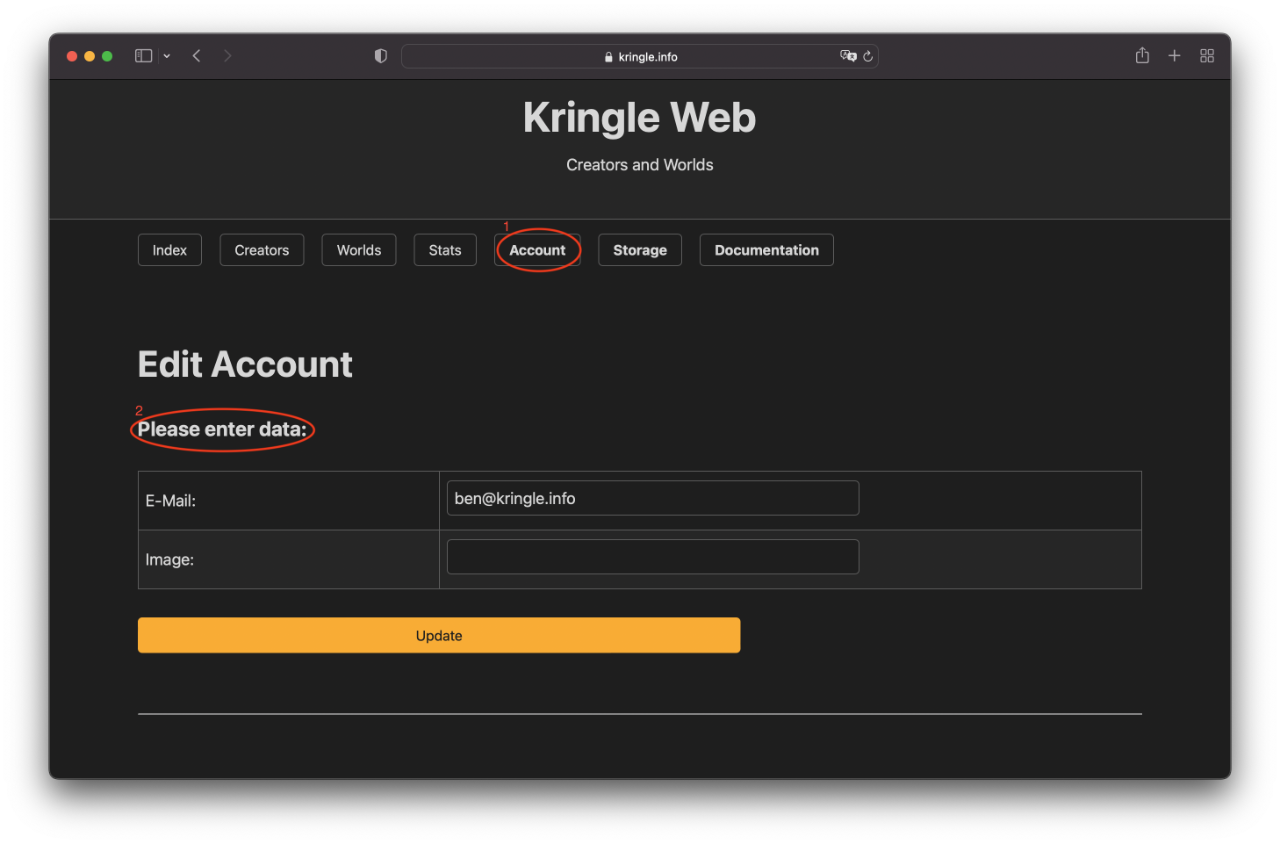
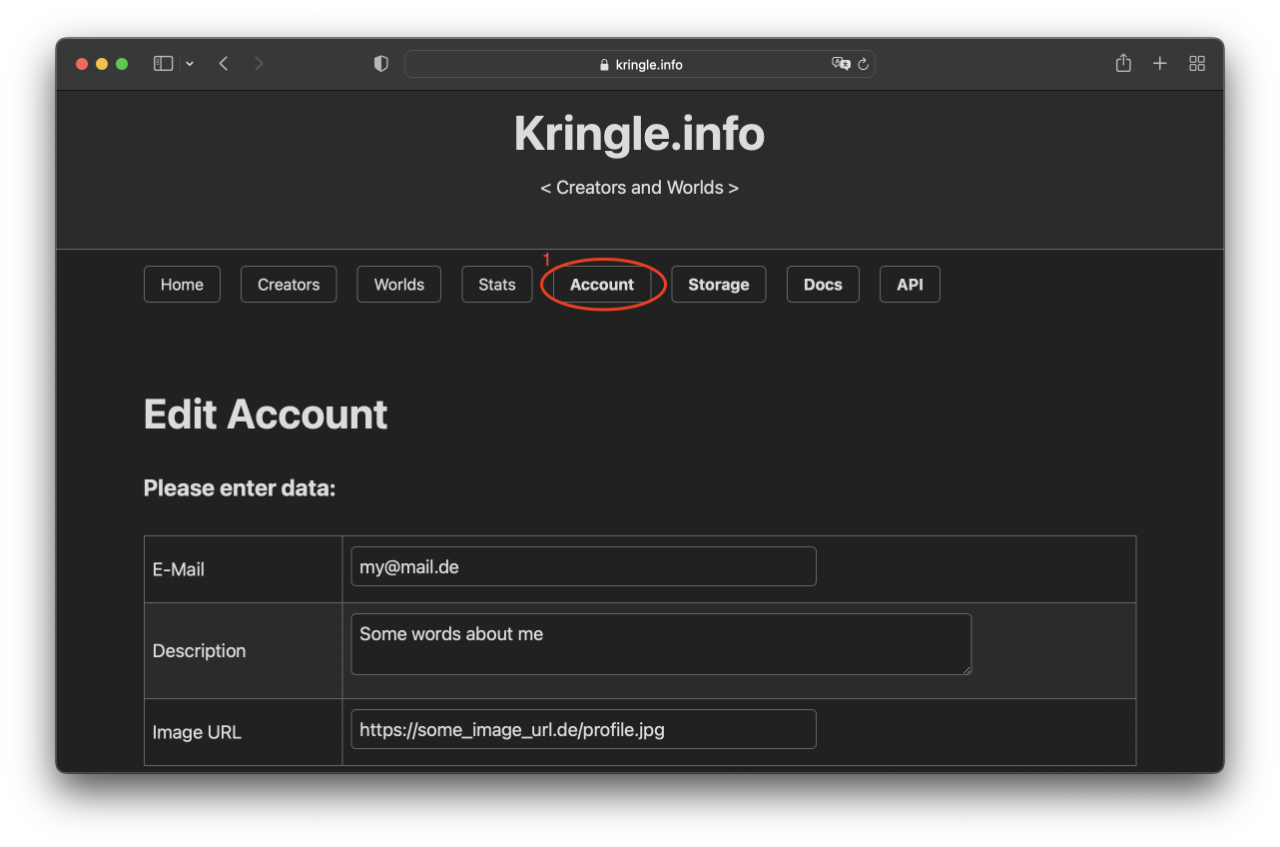
Update account help

diff --git a/docs/account.md b/docs/account.md
@@ -2,40 +2,39 @@
 
 ## New Account
 
-You can create a new account by clicking on the (1) *Account* button. This is possible if you are not already logged in.  
+You can create a new account by clicking on (1) *Account*. This is only possible if you are not already logged in.  
 
 The following data is required:  
 
 | Field            | Description         |  
 | ---------------- | ------------------- |
 | Name             | Your username (used for login and is displayed in the overview of the creators) |
-| E-mail           | Your e-mail address (Not currently used, possibly later for news and announcements, will not be displayed publicly) |
-| Password         | Your password (should be as secure as you see fit) |
+| E-mail           | Your e-mail address (Only used to send notifications about account changes like e-mail address changes) |
+| Password         | Your password (should be as secure as you want it to be) |
 | Invitation Code  | The invitation code is required to create an account |
 
 ![New Account](./img/account_new.png)
 
 ## Edit Account
 
-If you are already logged in, you can edit your account by clicking on (1) *Account*.
+If you are already logged in, you can edit your existing account by clicking on (1) *Account*.
 
 ### Enter data
 
-In the (2) first section, you can enter or change the following information:  
+In the first section, you can enter or change the following information:  
 
-| Field  | Description         |  
-| ------ | ------------------- |
-| E-mail | Your e-mail address |
-| Image  | The link to a profile picture (This is displayed in the overview of the creators. You can also use the storage area to upload an image) |
+| Field       | Description         |  
+| ----------- | ------------------- |
+| E-mail      | Your e-mail address |
+| Description | Something you want to let others know about you |
+| Image       | The link to a profile picture (This is displayed in the overview of the creators. You can also use the storage area to upload an image) |
 
 ![Edit Account](./img/account_edit.png)
 
 ### Set new password
 
-In the (3) second section, you can change your password.
+In the second section, you can change your password.
 
 ### Delete account
 
-In the (4) third section, you can delete your user account. Please be aware that all solutions which have been created by this user account will also be deleted!
-
-![Edit Account 2](./img/account_edit2.png)
+In the third section, you can delete your user account. Please be aware that all solutions which have been created by this user account will also be deleted!
